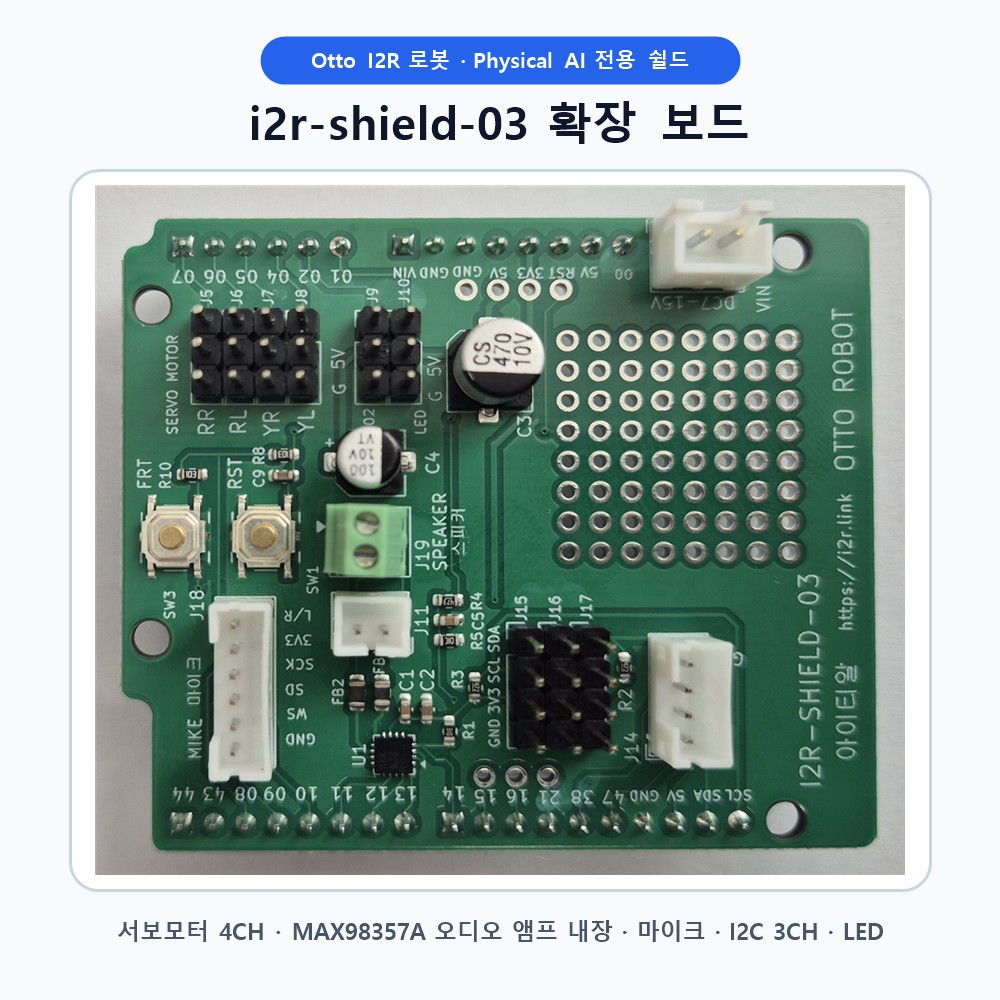
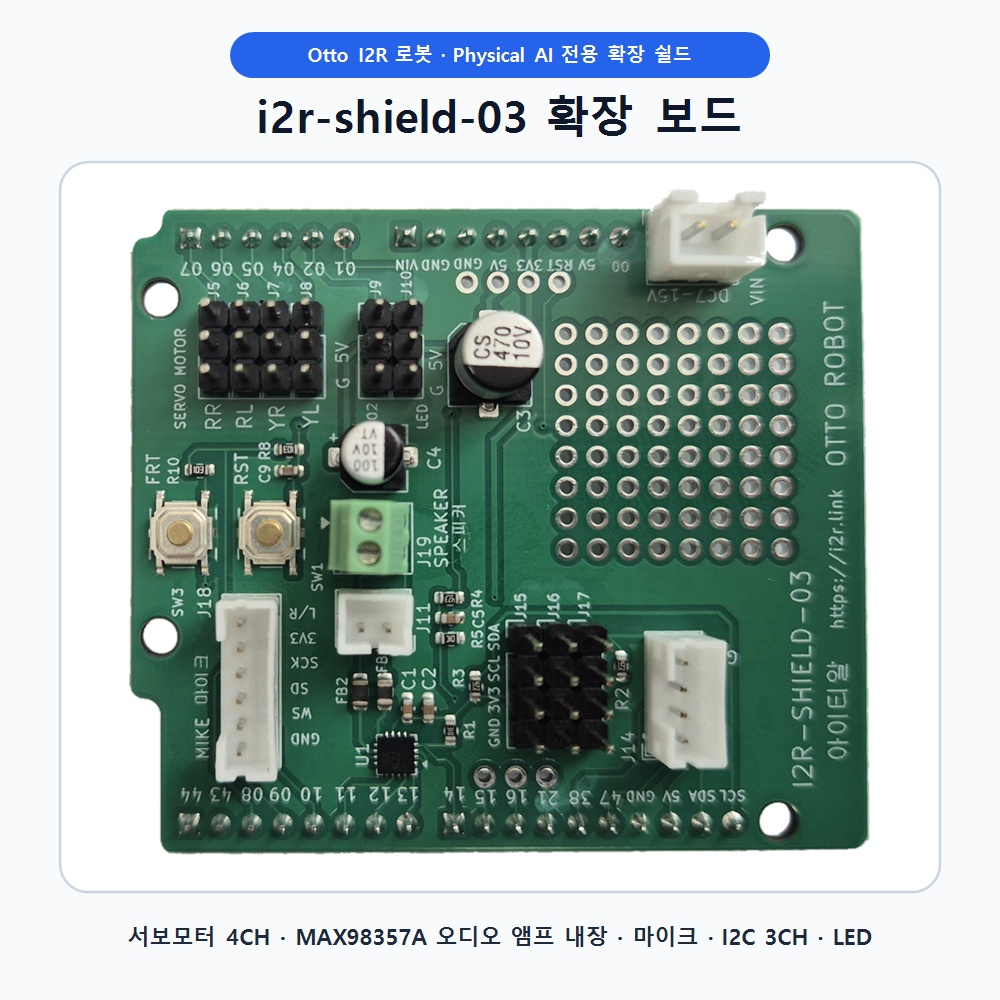
Update i2r-shield-03 images with clean white background

diff --git a/README.md b/README.md
@@ -347,9 +347,9 @@ void flowingEffect() {
 
 | MAX98357A 핀 | i2r-05 핀 | 신호 이름 | 역할 |
 |-------------|----------|----------|------|
-| **DIN** | **GPIO 11** | Data In | 오디오 데이터 전송 |
+| **DIN** | **GPIO 13** | Data In | 오디오 데이터 전송 |
 | **BCLK** | **GPIO 12** | Bit Clock | 데이터 동기화 클럭 |
-| **LRCLK** | **GPIO 13** | LR Clock | 좌/우 채널 구분 |
+| **LRCLK** | **GPIO 11** | LR Clock | 좌/우 채널 구분 |
 | **SD** | **GPIO 14** | Shutdown | HIGH = 앰프 ON, LOW = 음소거 |
 
 - 전원 및 공통선
@@ -378,16 +378,16 @@ void flowingEffect() {
 | **VDD** | **3.3V** | 전원 (⚠ 반드시 3.3V! 5V 연결 시 파손) |
 | **GND** | **GND** | 접지 |
 | **L/R** | **GND** | 채널 선택 (GND = 왼쪽 채널 사용) |
-| **SCK** | **GPIO 9** | I2S 비트 클럭 |
+| **SCK** | **GPIO 8** | I2S 비트 클럭 |
 | **WS** | **GPIO 10** | I2S 채널 클럭 (Word Select) |
-| **SD** | **GPIO 8** | I2S 데이터 출력 (마이크 → ESP32) |
+| **SD** | **GPIO 9** | I2S 데이터 출력 (마이크 → ESP32) |
 
 > ⚠ **L/R 핀을 반드시 GND에 연결**하세요!  
 > 연결하지 않으면 마이크가 랜덤 채널을 선택하여 소리가 잡히지 않습니다.
 
 > ⚠ **스피커(MAX98357A) SD핀과 마이크(INMP441) SD핀은 다른 핀입니다!**  
 > 스피커 SD = GPIO 14 (앰프 ON/OFF)  
-> 마이크 SD = GPIO 8 (데이터 출력)
+> 마이크 SD = GPIO 9 (데이터 출력)
 
 ---
 
@@ -399,9 +399,9 @@ void flowingEffect() {
 i2r-05 보드 (ESP32-S3-N16R8)         MAX98357A 오디오 앰프
 ┌──────────────────────────┐           ┌──────────────────────┐
 │                          │           │                      │
-│  GPIO 11 (DIN)  ─────────┼───────────┤ DIN  (오디오 데이터) │
+│  GPIO 13 (DIN)  ─────────┼───────────┤ DIN  (오디오 데이터) │
 │  GPIO 12 (BCLK) ─────────┼───────────┤ BCLK (비트 클럭)     │
-│  GPIO 13 (LRCLK)─────────┼───────────┤ LRCLK(채널 클럭)     │
+│  GPIO 11 (LRCLK)─────────┼───────────┤ LRCLK(채널 클럭)     │
 │  GPIO 14 (SD)   ─────────┼───────────┤ SD   (앰프 ON/OFF)   │
 │                          │           │                      │
 │  3.3V    ────────────────┼───────────┤ VCC  (전원)          │
@@ -438,9 +438,9 @@ i2r-05 보드
 │  GPIO  9 ── INMP441 SCK   (마이크 클럭)     │
 │  GPIO 10 ── INMP441 WS    (마이크 채널)     │
 │                                             │
-│  GPIO 11 ── MAX98357A DIN  (스피커 데이터)  │
+│  GPIO 13 ── MAX98357A DIN  (스피커 데이터)  │
 │  GPIO 12 ── MAX98357A BCLK (스피커 클럭)    │
-│  GPIO 13 ── MAX98357A LRCLK(스피커 채널)    │
+│  GPIO 11 ── MAX98357A LRCLK(스피커 채널)    │
 │  GPIO 14 ── MAX98357A SD   (앰프 ON/OFF)    │
 │                                             │
 │  3.3V ── INMP441 VDD, MAX98357A VCC         │
@@ -743,13 +743,13 @@ API 키 클릭
 #define WIFI_PASSWORD "00000000"
 
 // ── Gemini API 키 (aistudio.google.com 에서 무료 발급) ────
-// #define GEMINI_API_KEY "여기에_API_키_입력
-// AIzaSyCt-KHN72cq1cmlFKynYC98W5ENDEeIDVA"
-#define GEMINI_API_KEY "AIzaSyCt-KHN72cq1cmlFKynYC98W5ENDEeIDVA"
+// #define GEMINI_API_KEY "여기에_API_키_입력"
+// (발급받은 키는 아래 줄의 큰따옴표 안에 넣으세요. 키는 절대 공개 저장소에 올리지 마세요)
+#define GEMINI_API_KEY "여기에_API_키_입력"
 
 // ── 마이크 핀 ──────────────────────────────────────────────
-#define MIC_SD 8
-#define MIC_SCK 9
+#define MIC_SD 9
+#define MIC_SCK 8
 #define MIC_WS 10
 
 // ── 녹음 설정 ──────────────────────────────────────────────
@@ -1071,7 +1071,7 @@ void loop() {
 const char *ssid = "i2r";
 const char *password = "00000000";
 const char *gemini_api_key =
-    "AIzaSyCt-KHN72cq1cmlFKynYC98W5ENDEeIDVA"; // 무료 발급받은 키
+    "여기에_API_키_입력"; // 무료 발급받은 키
 
 // ── 2. 초기 설정 (보드를 켜면 한 번만 실행됨) ────────────────
 void setup() {
@@ -1213,9 +1213,9 @@ void askGoogleAI(String question) {
 //                                → I2S 디코딩 → MAX98357A → 스피커
 //
 // 핀 연결 (CONNECTION.md 기준)
-//   GPIO 11 → MAX98357A DIN   (오디오 데이터)
+//   GPIO 13 → MAX98357A DIN   (오디오 데이터)
 //   GPIO 12 → MAX98357A BCLK  (비트 클럭)
-//   GPIO 13 → MAX98357A LRCLK (채널 클럭)
+//   GPIO 11 → MAX98357A LRCLK (채널 클럭)
 //   GPIO 14 → MAX98357A SD    (HIGH = ON)
 // ============================================================
 
@@ -1229,8 +1229,8 @@ void askGoogleAI(String question) {
 
 // ── MAX98357A 핀 설정 ──────────────────────────────────────
 #define PIN_I2S_BCLK 12
-#define PIN_I2S_LRC 13
-#define PIN_I2S_DOUT 11
+#define PIN_I2S_LRC 11
+#define PIN_I2S_DOUT 13
 #define PIN_I2S_SD 14
 
 // ── Audio 객체 ────────────────────────────────────────────
@@ -1463,9 +1463,9 @@ void audio_showstation(const char *info) {
 //
 // 하드웨어 연결:
 //   [마이크 INMP441]            [스피커 MAX98357A]
-//   GPIO  8 → SD (데이터)      GPIO 11 → DIN  (데이터)
-//   GPIO  9 → SCK (클럭)       GPIO 12 → BCLK (클럭)
-//   GPIO 10 → WS  (채널선택)   GPIO 13 → LRCLK(채널선택)
+//   GPIO  9 → SD (데이터)      GPIO 13 → DIN  (데이터)
+//   GPIO  8 → SCK (클럭)       GPIO 12 → BCLK (클럭)
+//   GPIO 10 → WS  (채널선택)   GPIO 11 → LRCLK(채널선택)
 //   3.3V    → VDD               GPIO 14 → SD   (앰프 ON/OFF)
 //   GND     → GND + L/R        3.3V    → VIN
 // ============================================================
@@ -1491,8 +1491,8 @@ void audio_showstation(const char *info) {
 #define API_RETRY_DELAY_MS 1500
 
 // ── 마이크 핀 (INMP441) ──────────────────────────────────────
-#define MIC_SD 8
-#define MIC_SCK 9
+#define MIC_SD 9
+#define MIC_SCK 8
 #define MIC_WS 10
 
 // ── 스피커 핀 (MAX98357A) ────────────────────────────────────
